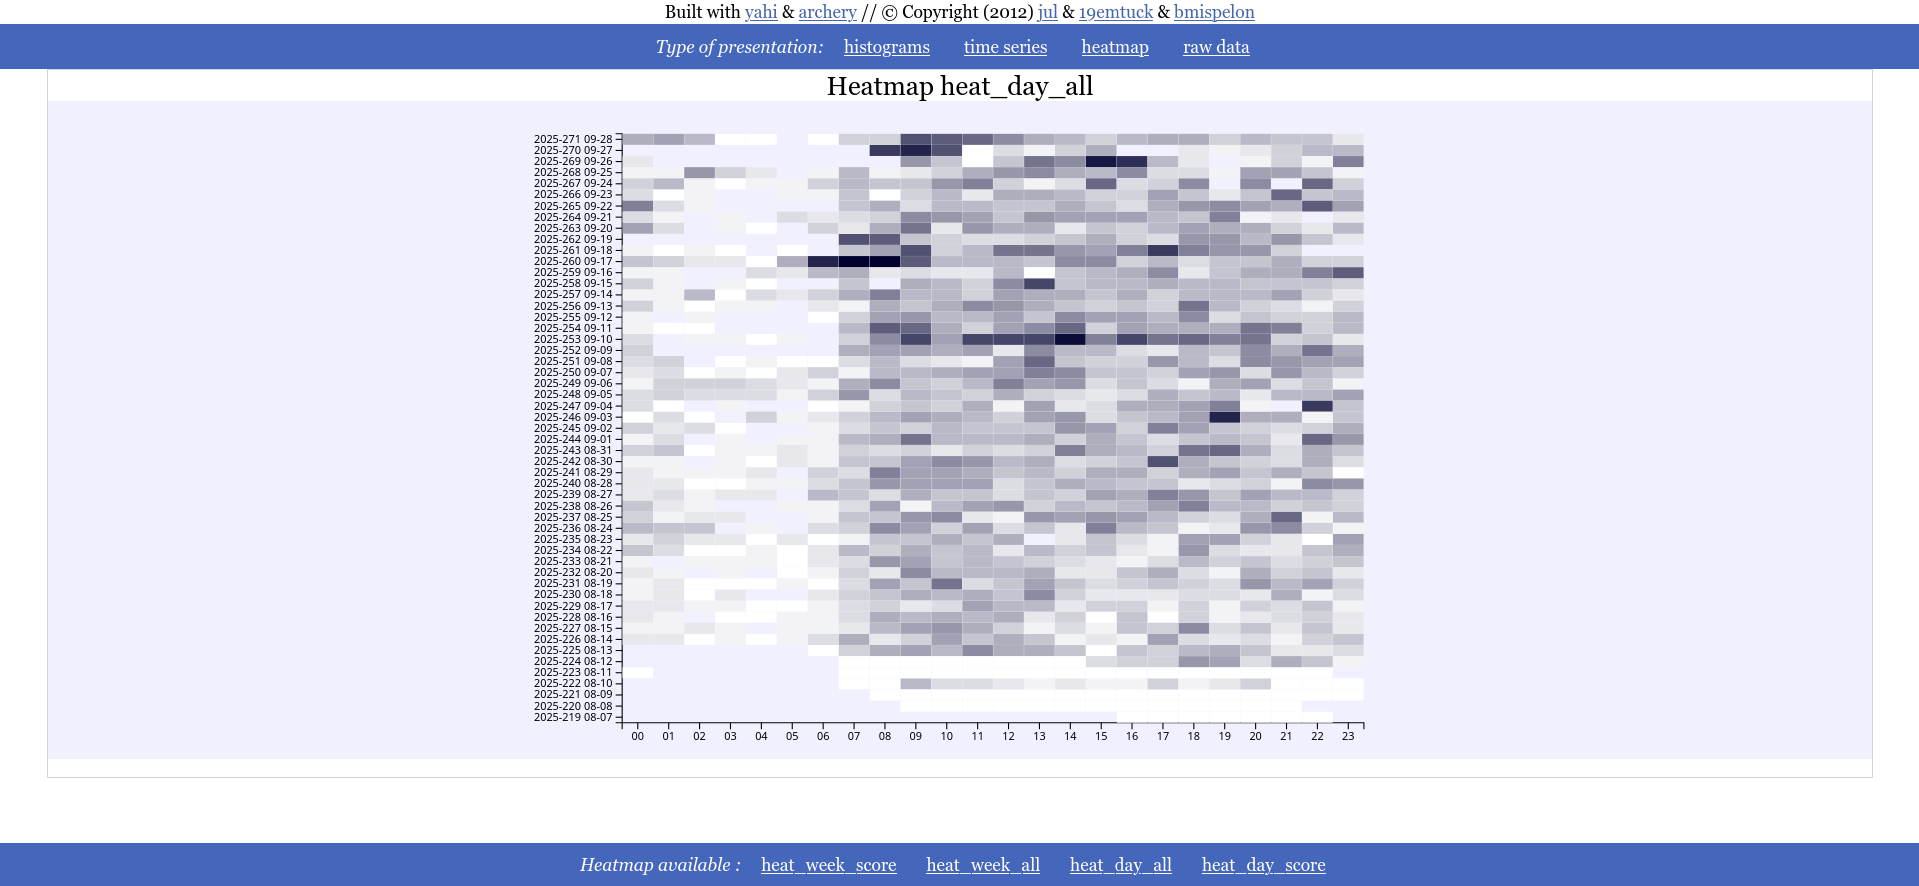
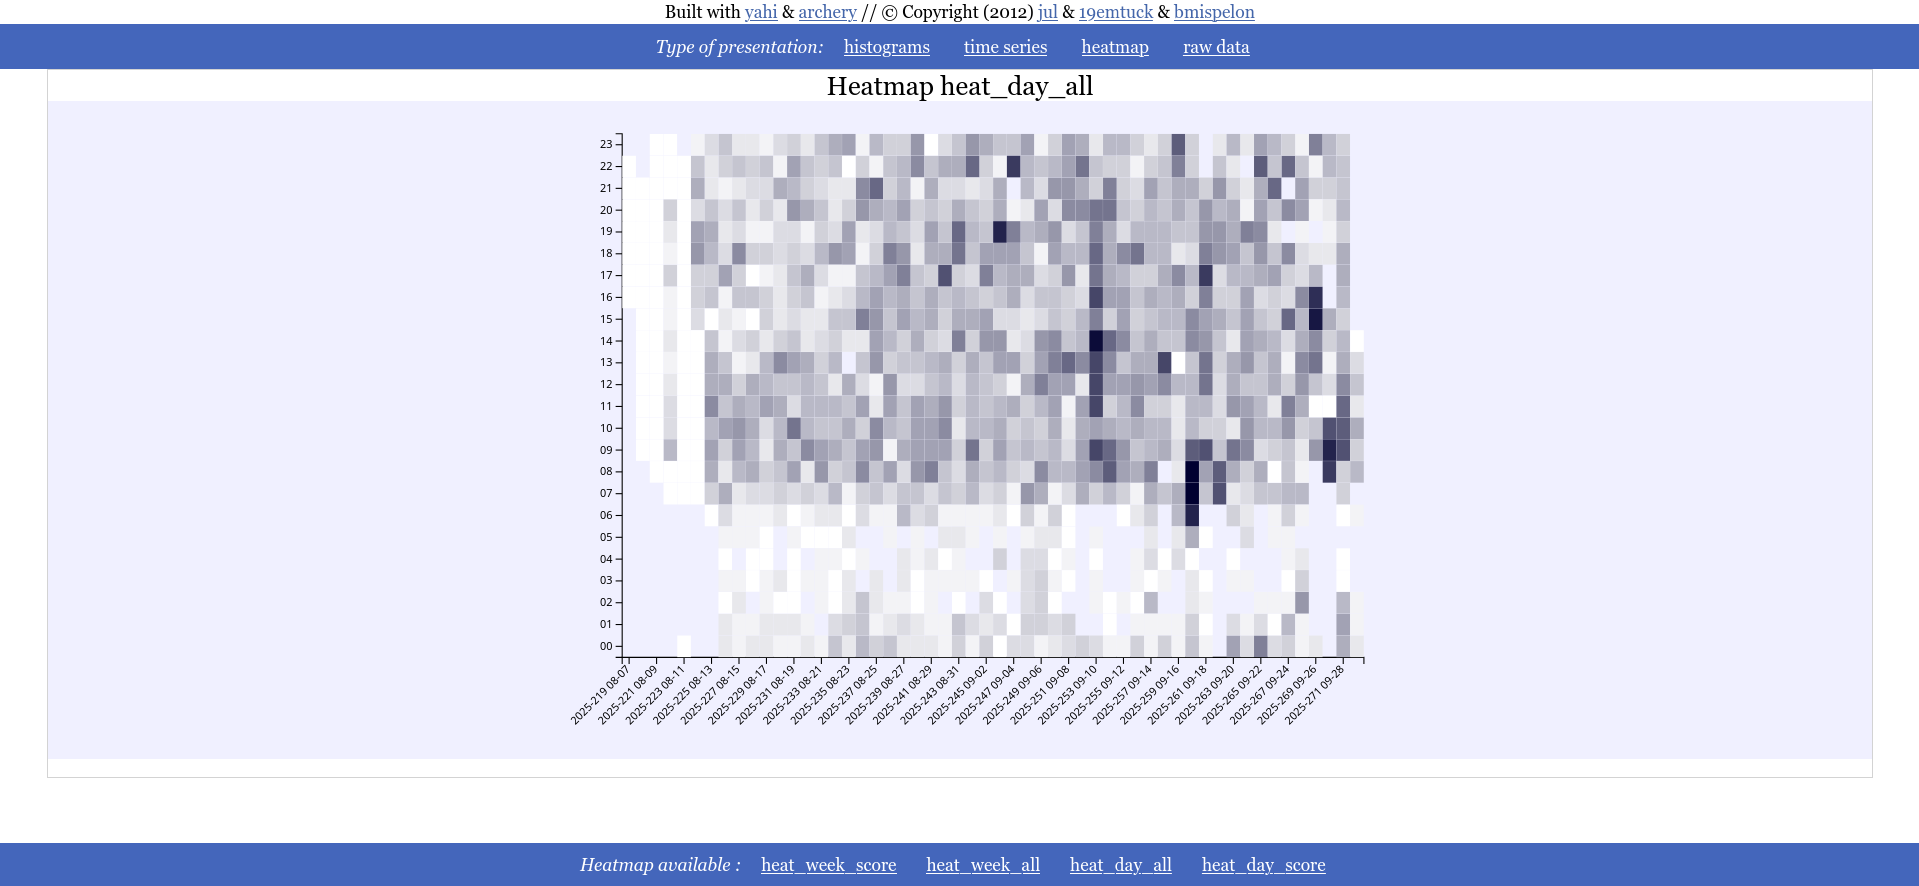
Version 0.4.1
deciding that "x:y" is the intuitive way to set the key for the heat map entry
changing documentation accordingly

Changed region(s): [[0.2767, 0.1524, 0.7379, 0.8228]]

diff --git a/yahi/template.py b/yahi/template.py
@@ -393,7 +393,7 @@ $(document).ready(function() {
     var has_by=false
     var has_chrono=false
     var has_heat=false
-   
+
     $.each(_keys(data), (i,e) => {
         if ( e.substring(0,3) == "by_" ) {
             $('#menu_down.top').append("<li><a id="+e+" class=selector href=#" + e + "?route=top >" + e + "</a></li>")
@@ -407,7 +407,7 @@ $(document).ready(function() {
             $('#menu_down.heat').append("<li><a id="+e+" class=selector href=#" + e + "?route=heat >" + e + "</a></li>")
             has_heat=true
         }
-        
+
     })
     $(".router").each( (i,e) => {
         var query = new URLSearchParams( e.attributes.href.value )
@@ -509,8 +509,7 @@ $(document).ready(function() {
     }
     function heat(category) {
         $("#plot > svg").remove()
-        console.log(category)
-        var margin = {top: 30, right: 30, bottom: 30, left: 90},
+        var margin = {top: 30, right: 30, bottom: 90, left: 90},
           width = 800 - margin.left - margin.right,
           height = 600 - margin.top - margin.bottom;
 
@@ -524,8 +523,8 @@ $(document).ready(function() {
                 "translate(" + margin.left + "," + margin.top + ")");
 
         // Labels of row and columns
-        var myGroups = []
-        var myVars = []
+        var myX = []
+        var myY = []
         var min = 0, max=0;
         var first=true;
         for (var key in data[category]) {
@@ -537,32 +536,43 @@ $(document).ready(function() {
             min = min < cur ? min : cur;
             max = max > cur ? max : cur;
             var e = key.split(":")
-            var group = e[0]
-            var vr = e[1]
-            if (myGroups.indexOf(group) == -1)
-                myGroups.push(group)
-            if (myVars.indexOf(vr) == -1)
-                myVars.push(vr)
+            var x = e[0]
+            var y = e[1]
+            if (myX.indexOf(x) == -1)
+                myX.push(x)
+            if (myY.indexOf(y) == -1)
+                myY.push(y)
         }
 
-        console.log(myGroups)
-        console.log(myVars)
-        myGroups.sort()
-        myVars.sort()
+        myX.sort()
+        myY.sort()
 
         // Build X scales and axis:
         var x = d3.scaleBand()
           .range([ 0, width ])
-          .domain(myGroups)
-          .padding(0.01);
+          .domain(myX)
+          .padding(0.01)
         svg.append("g")
           .attr("transform", "translate(0," + height + ")")
           .call(d3.axisBottom(x))
+          .selectAll("text")
+            .attr("transform", "translate(-10,0)rotate(-45)")
+            .style("text-anchor", "end");
+        // HACK ONE MAX ticks (delete Y ticks in the process
+           max_ticks = 20
+            if (myX.length > (max_ticks)) {
+                every= Math.floor(myX.length/(max_ticks))
+                var ticks = d3.selectAll(".tick");
+                ticks.each(function(_,i){
+                    if(i%every !== 0) d3.select(this).remove();
+                });
+            }
+
 
         // Build X scales and axis:
         var y = d3.scaleBand()
           .range([ height, 0 ])
-          .domain(myVars)
+          .domain(myY)
           .padding(0.01);
         svg.append("g")
           .call(d3.axisLeft(y));

diff --git a/docs/source/test4.py b/docs/source/test4.py
@@ -14,14 +14,13 @@ session = Session(engine)
 
 hr = lambda ts: "%02d-%02d" % (ts.hour, ts.minute - ts.minute % 10)
 date = lambda ts: ts.strftime("%Y-%m-%d")
-wW = lambda ts: ts.strftime("%w-%a:%Y-%U")
-dh = lambda ts: ts.strftime("%H:%Y-%j %m-%d")
+wW = lambda ts: ts.strftime("%Y-%U:%w-%a")
+dh = lambda ts: ts.strftime("%Y-%j %m-%d:%H")
 
 
-
-dump(
-    sum(
-        mdict(
+res = mdict()
+for post in session.query(Posts).all():
+    res += mdict(
             by_type=mdict({ post.maybe_spam and "spam" or "ham" : 1 }),
             date_all = mdict({date(post.created_at) : 1}),
             hour_all = mdict({hr(post.created_at) : 1}),
@@ -41,10 +40,7 @@ dump(
             heat_day_score = mdict({dh(post.created_at) :post.score}),
 
         )
-        for post in session.query(Posts).all()
-    ),
-    open("data.js", "w"),
-    indent=4
-)
+
+dump(res, open("data.js", "w"), indent=4)
 
 

diff --git a/test/custom_parser_lite.py b/test/custom_parser_lite.py
@@ -26,8 +26,8 @@ option.output_file.write(
                 'date_hit': mdict({str(data['_datetime'].date()): 1 }),
                 'hour_hit': mdict({"%2d" % int(data['_hour']): 1 }),
 
-                'heat_by_day' : mdict({ data['_datetime'].strftime("%w:%Y %W") : 1}),
-                'heat_by_hour' : mdict({ data['_datetime'].strftime("%H:%Y/%j %m-%d") : 1}),
+                'heat_by_day' : mdict({ data['_datetime'].strftime("%Y %U:%w") : 1}),
+                'heat_by_hour' : mdict({ data['_datetime'].strftime("%Y/%j %m-%d:%H") : 1}),
                 'hour_bandwidth': 
                     mdict({
                         "%2d" % int(data['_hour']):

diff --git a/setup.py b/setup.py
@@ -22,7 +22,7 @@ long_description = open("README.md").read()
 
 setup(
         name='yahi',
-        version='0.4.0',
+        version='0.4.1',
         author='Julien Tayon, Stephane Bard',
         author_email='julien@tayon.net',
         packages=['yahi'],

diff --git a/docs/source/conf.py b/docs/source/conf.py
@@ -52,7 +52,7 @@ copyright = u'2012, julien tayon'
 # The short X.Y version.
 version = "0.4"
 # The full version, including alpha/beta/rc tags.
-release = '0.4.0'
+release = '0.4.1'
 
 exclude_patterns = []
 

diff --git a/docs/source/yaom.rst b/docs/source/yaom.rst
@@ -20,10 +20,11 @@ Conventions
 
 The generated web page works with the following conventions:
 
-- if a *by_country* key exist it will expect counter in the form of the normalized country code and the counter ;
+- if a **by_country** key exist it will expect counter in the form of the normalized country code and the counter ;
 - else the geo chart will not be shown
-- if datas are named begining with *by_* it means you want to vizualize them in a sorted top form (defaults to 40 bins presented)
-- if datas have key *date_* *hour_* it means your data are in the form of something lexicographically sortalbe associated with the counter and the JS inside the view will graph them as time series.
+- if datas are named begining with **by_** it means you want to vizualize them in a sorted top form (defaults to 40 bins presented)
+- if datas have key **date_** **hour_** it means your data are in the form of something lexicographically sortalbe associated with the counter and the JS inside the view will graph them as time series.
+- if datas have key **heat_** it means you key will be in the form "*x*:"*y*" for the key and the value will be the amplitude of the heat map for given (*x*, *y*)
 
 The HTML view is litterally built from your data.
 
